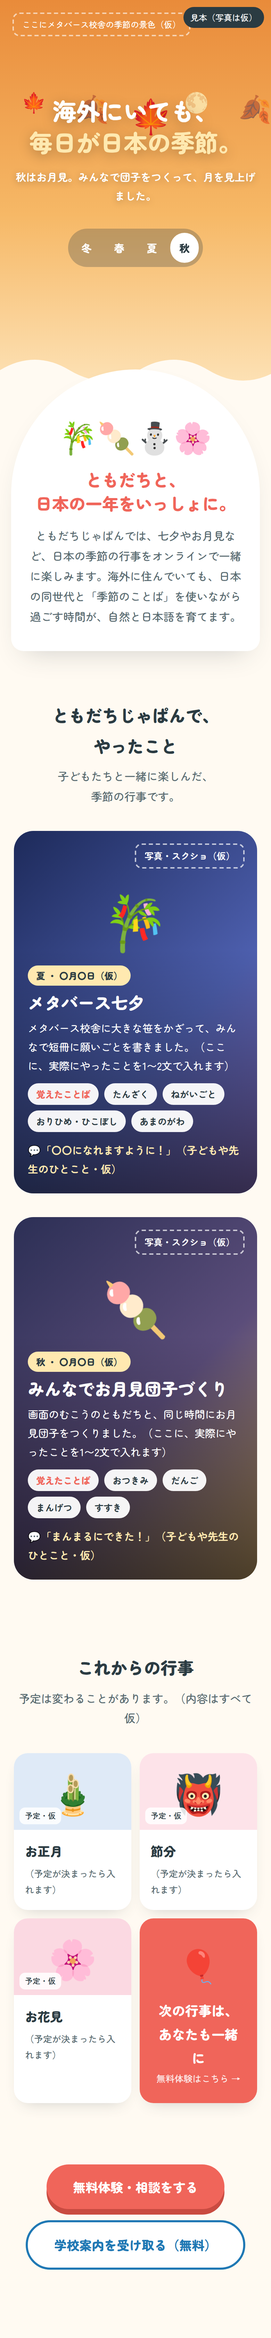
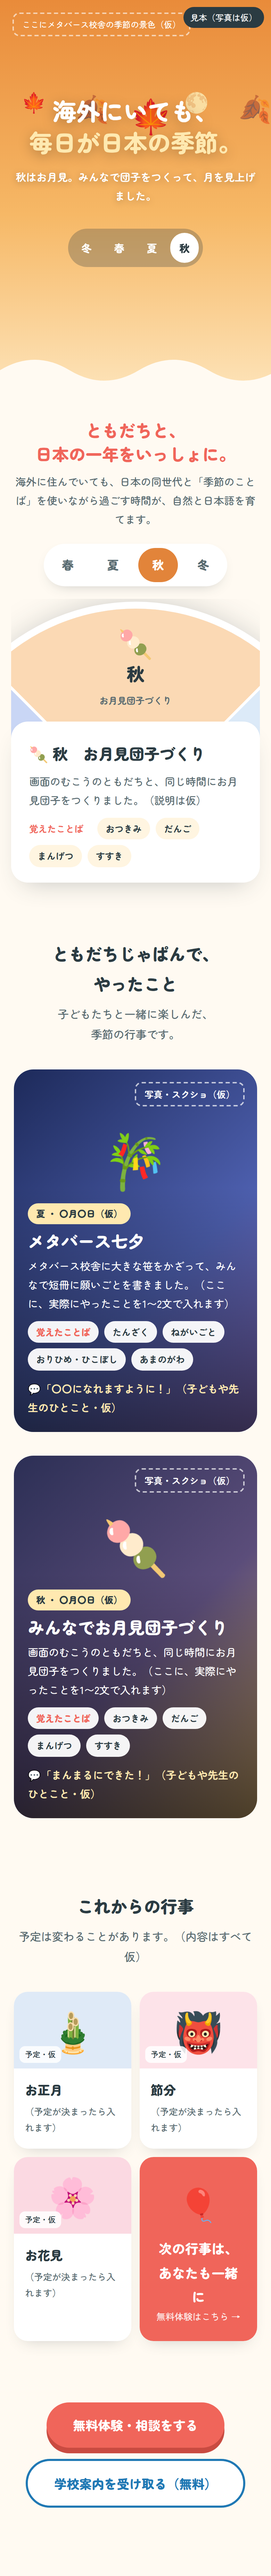
四季のページ見本：季節の輪（大きな円が回る演出）を追加
Claude-Session: https://claude.ai/code/session_01TCRPV7fohktLwWF6WC9mVd

diff --git a/site/kisetsu/kisetsu-mock.html b/site/kisetsu/kisetsu-mock.html
@@ -25,10 +25,31 @@ body{font-family:'Zen Maru Gothic',sans-serif;color:#2b3b42;background:#fffaf2;l
 .ks-tabs button.on{background:#fff;color:#2b3b42}
 .ks-edge{position:absolute;left:0;right:0;bottom:-1px;height:60px}
 /* ===== あいさつ（アーチ） ===== */
-.ks-arch{max-width:760px;margin:-40px auto 0;position:relative;background:#fff;border-radius:380px 380px 32px 32px;padding:70px 40px 50px;text-align:center;box-shadow:0 18px 40px -20px rgba(43,59,66,.25)}
-.ks-arch .ks-icon{font-size:44px}
-.ks-arch h2{font-size:clamp(24px,4vw,34px);font-weight:900;color:#f0655a;margin:6px 0 16px;line-height:1.4}
-.ks-arch p{color:#586a70;font-size:16px}
+/* ===== 季節の輪（大きな円が回る） ===== */
+.ks-ws{position:relative;text-align:center;padding:40px 16px 10px}
+.ks-ws h2{font-size:clamp(24px,4vw,34px);font-weight:900;color:#f0655a;line-height:1.4;margin-bottom:10px}
+.ks-ws > p{color:#586a70;font-size:15px;max-width:640px;margin:0 auto 22px}
+.ks-wb{display:inline-flex;gap:8px;background:#fff;padding:6px;border-radius:999px;box-shadow:0 8px 20px -12px rgba(43,59,66,.35);margin-bottom:18px}
+.ks-wb button{font:inherit;font-weight:900;font-size:17px;border:0;background:transparent;color:#586a70;padding:9px 20px;border-radius:999px;cursor:pointer;transition:background .3s,color .3s}
+.ks-wb button.on{color:#fff}
+.ks-wb button[data-s="spring"].on{background:#ec8aa5}.ks-wb button[data-s="summer"].on{background:#3f63c7}.ks-wb button[data-s="autumn"].on{background:#e2843a}.ks-wb button[data-s="winter"].on{background:#5b8fc9}
+.ks-win{--d:min(1000px,150vw);position:relative;height:calc(var(--d) * .36);overflow:hidden;margin:0 auto;max-width:100%}
+.ks-wheel{position:absolute;left:50%;top:14px;width:var(--d);height:var(--d);margin-left:calc(var(--d) / -2);border-radius:50%;
+background:conic-gradient(from -45deg,#fbd3df 0 90deg,#c9d6f5 90deg 180deg,#fbd9b4 180deg 270deg,#dceaf8 270deg 360deg);
+box-shadow:0 0 0 10px #fff,0 20px 50px -20px rgba(43,59,66,.35);transition:transform 1.1s cubic-bezier(.65,0,.25,1)}
+.ks-wheel::before,.ks-wheel::after{content:"";position:absolute;left:50%;top:0;bottom:0;width:4px;margin-left:-2px;background:#fff;transform:rotate(45deg)}
+.ks-wheel::after{transform:rotate(-45deg)}
+.ks-q{position:absolute;left:50%;top:50%;width:0;height:0}
+.ks-q div{position:absolute;left:-110px;width:220px;top:calc(var(--d) / -2 + 26px);text-align:center}
+.ks-q .e{font-size:clamp(40px,7vw,64px);line-height:1.1;display:block}
+.ks-q .n{font-size:clamp(26px,4.5vw,40px);font-weight:900;color:#2b3b42;display:block}
+.ks-q .m{font-size:13px;font-weight:700;color:#586a70}
+.ks-wt{max-width:640px;margin:-34px auto 0;position:relative;background:#fff;border-radius:24px;padding:26px 26px 22px;box-shadow:0 16px 36px -18px rgba(43,59,66,.3);text-align:left;transition:opacity .35s,transform .35s}
+.ks-wt.fade{opacity:0;transform:translateY(10px)}
+.ks-wt h3{font-size:22px;font-weight:900;margin-bottom:6px}
+.ks-wt p{font-size:15px;color:#586a70}
+.ks-wt .ks-words span{background:#fff5e1}
+.ks-wt .ks-words span.k{background:transparent;color:#f0655a;padding-left:0}
 /* ===== 行事パネル ===== */
 .ks-wrap{max-width:1080px;margin:0 auto;padding:70px 20px}
 .ks-h{text-align:center;font-size:clamp(24px,4vw,34px);font-weight:900;margin-bottom:8px}
@@ -62,7 +83,7 @@ body{font-family:'Zen Maru Gothic',sans-serif;color:#2b3b42;background:#fffaf2;l
 .ks-btn{display:inline-block;background:#f0655a;color:#fff;text-decoration:none;font-weight:900;font-size:18px;padding:16px 38px;border-radius:999px;box-shadow:0 8px 0 #c94b41;margin:8px}
 .ks-btn.ks-sub2{background:#fff;color:#1f78b4;border:3px solid #1f78b4;box-shadow:none}
 @media (max-width:820px){.ks-cards{grid-template-columns:1fr 1fr}}
-@media (max-width:560px){.ks-panel .ks-ph{justify-content:center;padding:58px 0 0;font-size:76px}.ks-hero{min-height:560px}.ks-tabs button{padding:8px 13px;font-size:15px}.ks-arch{border-radius:240px 240px 24px 24px;padding:56px 22px 36px;margin:-30px 16px 0}.ks-panel{min-height:520px}.ks-panel .ks-in{padding:22px 20px}.ks-cards{grid-template-columns:1fr 1fr;gap:12px}.ks-card .ks-cimg{height:110px}}
+@media (max-width:560px){.ks-panel .ks-ph{justify-content:center;padding:58px 0 0;font-size:76px}.ks-hero{min-height:560px}.ks-tabs button{padding:8px 13px;font-size:15px}.ks-panel{min-height:520px}.ks-panel .ks-in{padding:22px 20px}.ks-cards{grid-template-columns:1fr 1fr;gap:12px}.ks-card .ks-cimg{height:110px}}
 </style></head><body>
 <div class="ks-mock">見本（写真は仮）</div>
 
@@ -77,10 +98,19 @@ body{font-family:'Zen Maru Gothic',sans-serif;color:#2b3b42;background:#fffaf2;l
   <svg class="ks-edge" viewBox="0 0 1200 60" preserveAspectRatio="none"><path fill="#fffaf2" d="M0 30 Q50 0 100 30 Q150 60 200 30 Q250 0 300 30 Q350 60 400 30 Q450 0 500 30 Q550 60 600 30 Q650 0 700 30 Q750 60 800 30 Q850 0 900 30 Q950 60 1000 30 Q1050 0 1100 30 Q1150 60 1200 30 V60 H0Z"/></svg>
 </section>
 
-<section class="ks-arch">
-  <div class="ks-icon">🎋🍡⛄🌸</div>
+<section class="ks-ws">
   <h2>ともだちと、<br>日本の一年をいっしょに。</h2>
-  <p>ともだちじゃぱんでは、七夕やお月見など、日本の季節の行事をオンラインで一緒に楽しみます。海外に住んでいても、日本の同世代と「季節のことば」を使いながら過ごす時間が、自然と日本語を育てます。</p>
+  <p>海外に住んでいても、日本の同世代と「季節のことば」を使いながら過ごす時間が、自然と日本語を育てます。</p>
+  <div class="ks-wb" id="ksWb"><button data-s="spring">春</button><button data-s="summer">夏</button><button data-s="autumn">秋</button><button data-s="winter">冬</button></div>
+  <div class="ks-win">
+    <div class="ks-wheel" id="ksWheel">
+      <div class="ks-q" style="transform:rotate(0deg)"><div><span class="e">🌸</span><span class="n">春</span><span class="m">お花見（仮）</span></div></div>
+      <div class="ks-q" style="transform:rotate(90deg)"><div><span class="e">🎋</span><span class="n">夏</span><span class="m">メタバース七夕</span></div></div>
+      <div class="ks-q" style="transform:rotate(180deg)"><div><span class="e">🍡</span><span class="n">秋</span><span class="m">お月見団子づくり</span></div></div>
+      <div class="ks-q" style="transform:rotate(270deg)"><div><span class="e">⛄</span><span class="n">冬</span><span class="m">お正月（仮）</span></div></div>
+    </div>
+  </div>
+  <div class="ks-wt" id="ksWt"></div>
 </section>
 
 <section class="ks-wrap">
@@ -129,18 +159,26 @@ body{font-family:'Zen Maru Gothic',sans-serif;color:#2b3b42;background:#fffaf2;l
 <script>
 (function(){
 var S={
- winter:{sub:"冬は雪あそびとお正月。（仮）",d:["❄","❄","⛄","❄","❄"]},
- spring:{sub:"春はお花見。（仮）",d:["🌸","🌸","🌸","🌸","🌸"]},
- summer:{sub:"夏は七夕。願いごとを短冊に書きました。",d:["✨","⭐","🎋","✨","⭐"]},
- autumn:{sub:"秋はお月見。みんなで団子をつくって、月を見上げました。",d:["🍁","🍂","🍁","🌕","🍂"]}
+ spring:{i:0,sub:"春はお花見。（仮）",d:["🌸","🌸","🌸","🌸","🌸"],t:"🌸 春　お花見（仮）",p:"（春にやる行事が決まったら、ここに説明を入れます）",w:["さくら","おはなみ","はるやすみ"]},
+ summer:{i:1,sub:"夏は七夕。願いごとを短冊に書きました。",d:["✨","⭐","🎋","✨","⭐"],t:"🎋 夏　メタバース七夕",p:"メタバース校舎に大きな笹をかざって、みんなで短冊に願いごとを書きました。（説明は仮）",w:["たんざく","ねがいごと","あまのがわ"]},
+ autumn:{i:2,sub:"秋はお月見。みんなで団子をつくって、月を見上げました。",d:["🍁","🍂","🍁","🌕","🍂"],t:"🍡 秋　お月見団子づくり",p:"画面のむこうのともだちと、同じ時間にお月見団子をつくりました。（説明は仮）",w:["おつきみ","だんご","まんげつ","すすき"]},
+ winter:{i:3,sub:"冬は雪あそびとお正月。（仮）",d:["❄","❄","⛄","❄","❄"],t:"⛄ 冬　お正月（仮）",p:"（冬にやる行事が決まったら、ここに説明を入れます）",w:["おしょうがつ","かきぞめ","おもち"]}
 };
-var hero=document.getElementById("ksHero"),deco=document.getElementById("ksDeco"),sub=document.getElementById("ksSub");
+var hero=document.getElementById("ksHero"),deco=document.getElementById("ksDeco"),sub=document.getElementById("ksSub"),
+ wheel=document.getElementById("ksWheel"),wt=document.getElementById("ksWt"),ang=0,first=1;
+function words(a){return '<div class="ks-words"><span class="k">覚えたことば</span>'+a.map(function(x){return "<span>"+x+"</span>"}).join("")+"</div>"}
 function set(s){
- hero.setAttribute("data-s",s);sub.textContent=S[s].sub;deco.innerHTML="";
- S[s].d.forEach(function(e,i){var x=document.createElement("i");x.textContent=e;x.style.left=(8+i*20)+"%";x.style.animationDelay=(i*1.7)+"s";x.style.fontSize=(28+i%3*10)+"px";deco.appendChild(x)});
- [].forEach.call(document.querySelectorAll(".ks-tabs button"),function(b){b.className=b.getAttribute("data-s")===s?"on":""});
+ var o=S[s];
+ hero.setAttribute("data-s",s);sub.textContent=o.sub;deco.innerHTML="";
+ o.d.forEach(function(e,i){var x=document.createElement("i");x.textContent=e;x.style.left=(8+i*20)+"%";x.style.animationDelay=(i*1.7)+"s";x.style.fontSize=(28+i%3*10)+"px";deco.appendChild(x)});
+ [].forEach.call(document.querySelectorAll(".ks-tabs button,.ks-wb button"),function(b){b.className=b.getAttribute("data-s")===s?"on":""});
+ var target=-o.i*90,cur=((ang%360)+360)%360,t=((target%360)+360)%360,diff=t-cur;
+ if(diff>180)diff-=360;if(diff<=-180)diff+=360;ang+=diff;
+ wheel.style.transform="rotate("+ang+"deg)";
+ var fill=function(){wt.innerHTML="<h3>"+o.t+"</h3><p>"+o.p+"</p>"+words(o.w);wt.classList.remove("fade")};
+ if(first){first=0;fill()}else{wt.classList.add("fade");setTimeout(fill,450)}
 }
-[].forEach.call(document.querySelectorAll(".ks-tabs button"),function(b){b.addEventListener("click",function(){set(b.getAttribute("data-s"))})});
+[].forEach.call(document.querySelectorAll(".ks-tabs button,.ks-wb button"),function(b){b.addEventListener("click",function(){set(b.getAttribute("data-s"))})});
 set("autumn");
 })();
 </script>
